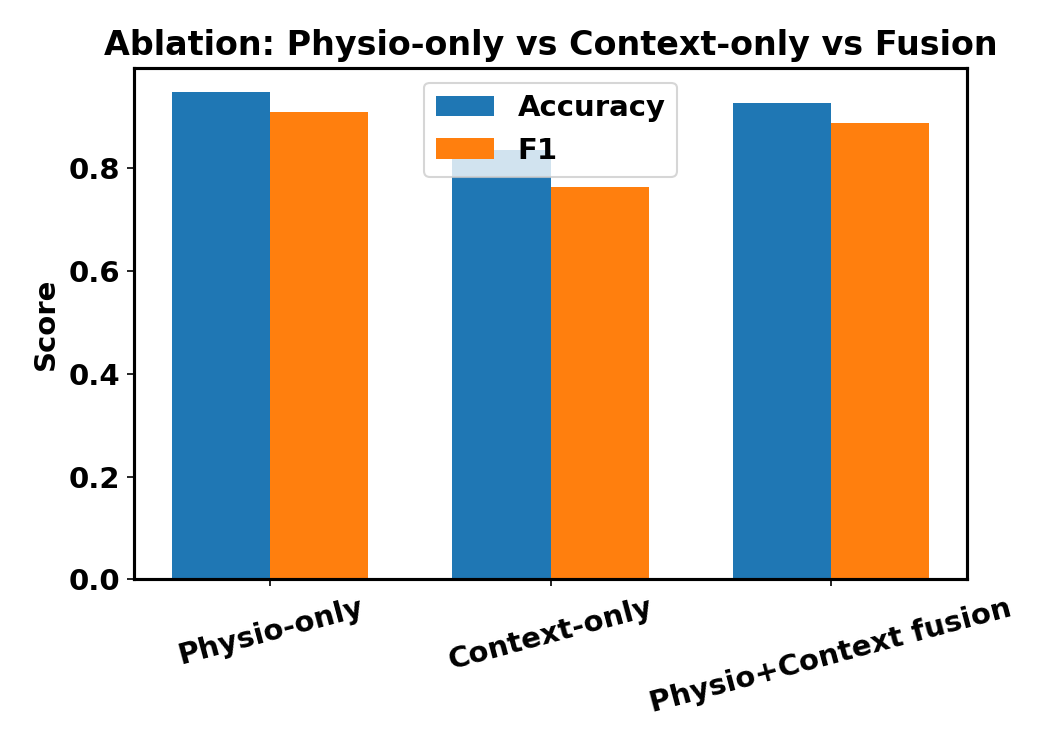
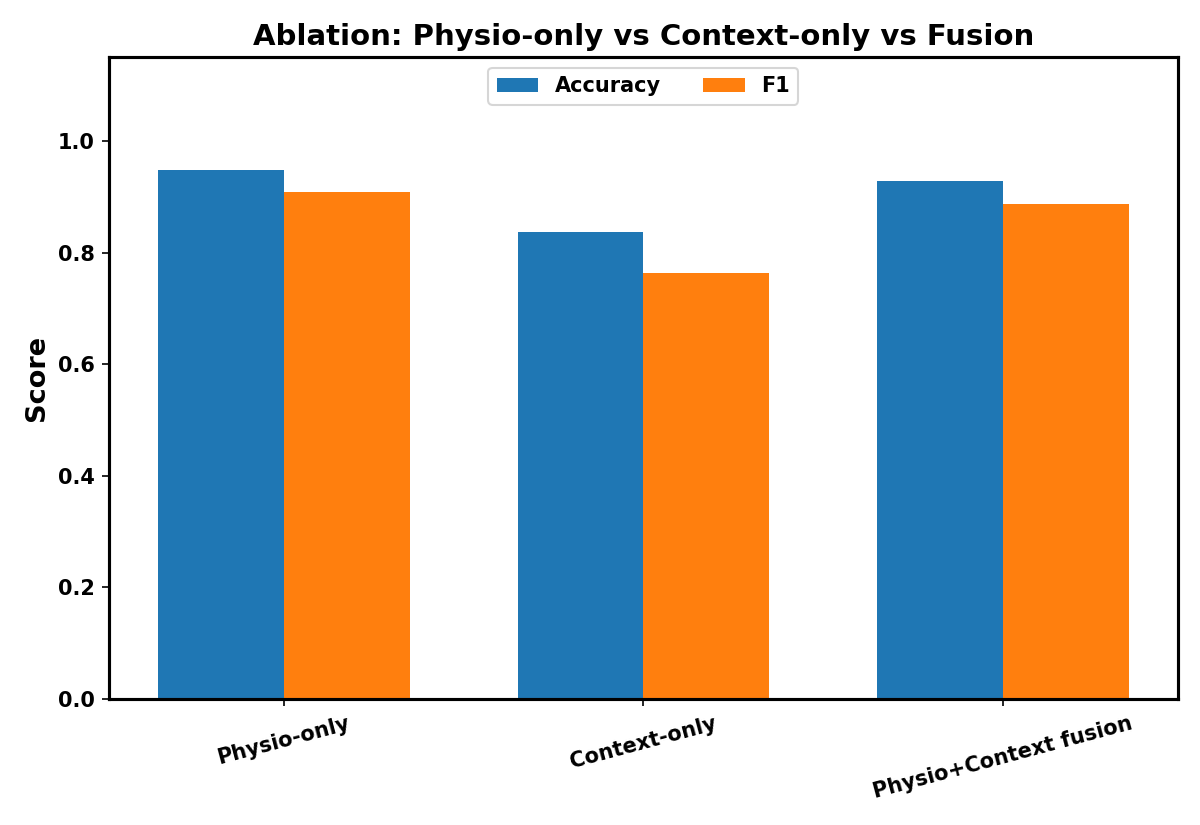
[eval] fix figure sizing/legend clashes across all plots

Changed region(s): [[0.0, 0.0307, 1.0, 0.9813]]

diff --git a/eval/generate_figures.py b/eval/generate_figures.py
@@ -2,7 +2,8 @@
 eval/generate_figures.py
 Generates paper-ready figures from saved results CSVs.
 Saves all as PNG into paper/figures/.
-Styling: bold text throughout, font size 14-16, visible spines.
+Styling: bold text, visible spines, font sizes tuned per-figure to avoid
+legend/label clashes on dense plots.
 """
 import pandas as pd
 import matplotlib.pyplot as plt
@@ -10,15 +11,9 @@ import matplotlib.pyplot as plt
 OUT_DIR = "paper/figures"
 
 plt.rcParams.update({
-    "font.size": 14,
     "font.weight": "bold",
     "axes.labelweight": "bold",
     "axes.titleweight": "bold",
-    "axes.titlesize": 16,
-    "axes.labelsize": 14,
-    "xtick.labelsize": 14,
-    "ytick.labelsize": 14,
-    "legend.fontsize": 14,
     "axes.linewidth": 1.5,
     "axes.edgecolor": "black",
 })
@@ -31,19 +26,26 @@ def style_spines(ax):
         spine.set_color("black")
 
 
+def bold_ticks(ax, size=11):
+    for label in ax.get_xticklabels() + ax.get_yticklabels():
+        label.set_fontweight("bold")
+        label.set_fontsize(size)
+
+
 def fig_loso_per_subject():
     df = pd.read_csv("results/physio_loso_results.csv")
-    fig, ax = plt.subplots(figsize=(10, 5))
+    fig, ax = plt.subplots(figsize=(11, 5.5))
     x = range(len(df))
-    ax.bar(x, df["acc"], label="Accuracy", alpha=0.7)
-    ax.bar(x, df["f1"], label="F1", alpha=0.7, width=0.5)
+    ax.bar(x, df["acc"], label="Accuracy", alpha=0.7, width=0.6)
+    ax.bar(x, df["f1"], label="F1", alpha=0.7, width=0.35)
     ax.set_xticks(x)
-    ax.set_xticklabels(df["subject"], rotation=45, fontweight="bold")
-    ax.set_ylabel("Score", fontweight="bold")
-    ax.set_title("Physio Agent — Per-Subject LOSO Performance", fontweight="bold")
-    for label in ax.get_yticklabels():
-        label.set_fontweight("bold")
-    leg = ax.legend()
+    ax.set_xticklabels(df["subject"], rotation=45, fontsize=10, fontweight="bold")
+    ax.set_ylabel("Score", fontsize=13, fontweight="bold")
+    ax.set_title("Physio Agent — Per-Subject LOSO Performance", fontsize=14, fontweight="bold")
+    ax.set_ylim(0, 1.15)
+    bold_ticks(ax, size=10)
+    leg = ax.legend(fontsize=10, loc="upper center", ncol=2,
+                     bbox_to_anchor=(0.5, 1.0), frameon=True)
     for text in leg.get_texts():
         text.set_fontweight("bold")
     style_spines(ax)
@@ -69,17 +71,20 @@ def fig_baseline_comparison():
     f1s += [physio_loso["f1"].mean(), behavior["f1"].iloc[0]]
 
     x = range(len(labels))
-    fig, ax = plt.subplots(figsize=(10, 5))
+    fig, ax = plt.subplots(figsize=(11, 5.5))
     width = 0.35
     ax.bar([i - width/2 for i in x], accs, width, label="Accuracy")
     ax.bar([i + width/2 for i in x], f1s, width, label="F1")
     ax.set_xticks(x)
-    ax.set_xticklabels(labels, fontsize=12, fontweight="bold")
-    ax.set_ylabel("Score", fontweight="bold")
-    ax.set_title("Baseline Classifiers vs MARL (PPO) Agents", fontweight="bold")
+    ax.set_xticklabels(labels, fontsize=9, fontweight="bold")
+    ax.set_ylabel("Score", fontsize=13, fontweight="bold")
+    ax.set_title("Baseline Classifiers vs MARL (PPO) Agents", fontsize=14, fontweight="bold")
+    ax.set_ylim(0, 1.15)
     for label in ax.get_yticklabels():
         label.set_fontweight("bold")
-    leg = ax.legend()
+        label.set_fontsize(10)
+    leg = ax.legend(fontsize=10, loc="upper center", ncol=2,
+                     bbox_to_anchor=(0.5, 1.0), frameon=True)
     for text in leg.get_texts():
         text.set_fontweight("bold")
     style_spines(ax)
@@ -91,18 +96,21 @@ def fig_baseline_comparison():
 
 def fig_ablation():
     df = pd.read_csv("results/ablation_results.csv")
-    fig, ax = plt.subplots(figsize=(7, 5))
+    fig, ax = plt.subplots(figsize=(8, 5.5))
     x = range(len(df))
     width = 0.35
     ax.bar([i - width/2 for i in x], df["acc"], width, label="Accuracy")
     ax.bar([i + width/2 for i in x], df["f1"], width, label="F1")
     ax.set_xticks(x)
-    ax.set_xticklabels(df["config"], rotation=15, fontweight="bold")
-    ax.set_ylabel("Score", fontweight="bold")
-    ax.set_title("Ablation: Physio-only vs Context-only vs Fusion", fontweight="bold")
+    ax.set_xticklabels(df["config"], rotation=15, fontsize=10, fontweight="bold")
+    ax.set_ylabel("Score", fontsize=13, fontweight="bold")
+    ax.set_title("Ablation: Physio-only vs Context-only vs Fusion", fontsize=14, fontweight="bold")
+    ax.set_ylim(0, 1.15)
     for label in ax.get_yticklabels():
         label.set_fontweight("bold")
-    leg = ax.legend()
+        label.set_fontsize(10)
+    leg = ax.legend(fontsize=10, loc="upper center", ncol=2,
+                     bbox_to_anchor=(0.5, 1.0), frameon=True)
     for text in leg.get_texts():
         text.set_fontweight("bold")
     style_spines(ax)
@@ -130,14 +138,11 @@ def fig_shap_summary():
 
     mean_abs = np.mean(np.abs(shap_values), axis=0)
     order = np.argsort(mean_abs)
-    fig, ax = plt.subplots(figsize=(8, 5))
+    fig, ax = plt.subplots(figsize=(8, 5.5))
     ax.barh([FEATURE_COLS[i] for i in order], mean_abs[order])
-    ax.set_xlabel("Mean |SHAP value|", fontweight="bold")
-    ax.set_title("Physio Agent — SHAP Feature Importance", fontweight="bold")
-    for label in ax.get_yticklabels():
-        label.set_fontweight("bold")
-    for label in ax.get_xticklabels():
-        label.set_fontweight("bold")
+    ax.set_xlabel("Mean |SHAP value|", fontsize=13, fontweight="bold")
+    ax.set_title("Physio Agent — SHAP Feature Importance", fontsize=14, fontweight="bold")
+    bold_ticks(ax, size=10)
     style_spines(ax)
     plt.tight_layout()
     plt.savefig(f"{OUT_DIR}/shap_physio_summary.png", dpi=150)

diff --git a/eval/generate_figures_extra.py b/eval/generate_figures_extra.py
@@ -2,7 +2,8 @@
 eval/generate_figures_extra.py
 Additional figure variety: confusion matrices, ROC curves, feature
 correlation heatmap.
-Styling: bold text throughout, font size 14-16, visible spines.
+Styling: bold text, visible spines, font sizes tuned per-figure to avoid
+legend/label clashes on dense plots.
 """
 import numpy as np
 import pandas as pd
@@ -12,15 +13,9 @@ from sklearn.metrics import confusion_matrix, roc_curve, auc
 OUT_DIR = "paper/figures"
 
 plt.rcParams.update({
-    "font.size": 14,
     "font.weight": "bold",
     "axes.labelweight": "bold",
     "axes.titleweight": "bold",
-    "axes.titlesize": 16,
-    "axes.labelsize": 14,
-    "xtick.labelsize": 14,
-    "ytick.labelsize": 14,
-    "legend.fontsize": 14,
     "axes.linewidth": 1.5,
     "axes.edgecolor": "black",
 })
@@ -35,20 +30,21 @@ def style_spines(ax):
 
 def fig_confusion_matrix(y_true, y_pred, title, filename):
     cm = confusion_matrix(y_true, y_pred)
-    fig, ax = plt.subplots(figsize=(5, 4))
+    fig, ax = plt.subplots(figsize=(5.5, 4.8))
     im = ax.imshow(cm, cmap="Blues")
     ax.set_xticks([0, 1]); ax.set_yticks([0, 1])
-    ax.set_xticklabels(["Non-risk", "Risk"], fontweight="bold")
-    ax.set_yticklabels(["Non-risk", "Risk"], fontweight="bold")
-    ax.set_xlabel("Predicted", fontweight="bold")
-    ax.set_ylabel("True", fontweight="bold")
-    ax.set_title(title, fontweight="bold")
+    ax.set_xticklabels(["Non-risk", "Risk"], fontsize=11, fontweight="bold")
+    ax.set_yticklabels(["Non-risk", "Risk"], fontsize=11, fontweight="bold")
+    ax.set_xlabel("Predicted", fontsize=12, fontweight="bold")
+    ax.set_ylabel("True", fontsize=12, fontweight="bold")
+    ax.set_title(title, fontsize=13, fontweight="bold", pad=12)
     for i in range(2):
         for j in range(2):
             ax.text(j, i, cm[i, j], ha="center", va="center",
                      color="white" if cm[i, j] > cm.max() / 2 else "black",
-                     fontsize=14, fontweight="bold")
-    cbar = plt.colorbar(im)
+                     fontsize=13, fontweight="bold")
+    cbar = plt.colorbar(im, fraction=0.046, pad=0.04)
+    cbar.ax.tick_params(labelsize=9)
     for label in cbar.ax.get_yticklabels():
         label.set_fontweight("bold")
     style_spines(ax)
@@ -61,17 +57,16 @@ def fig_confusion_matrix(y_true, y_pred, title, filename):
 def fig_roc_curve(y_true, y_score, title, filename):
     fpr, tpr, _ = roc_curve(y_true, y_score)
     roc_auc = auc(fpr, tpr)
-    fig, ax = plt.subplots(figsize=(5, 5))
+    fig, ax = plt.subplots(figsize=(5.5, 5.5))
     ax.plot(fpr, tpr, label=f"AUC = {roc_auc:.3f}", linewidth=2.5)
     ax.plot([0, 1], [0, 1], linestyle="--", color="gray", label="Chance", linewidth=2)
-    ax.set_xlabel("False Positive Rate", fontweight="bold")
-    ax.set_ylabel("True Positive Rate", fontweight="bold")
-    ax.set_title(title, fontweight="bold")
-    for label in ax.get_xticklabels():
+    ax.set_xlabel("False Positive Rate", fontsize=12, fontweight="bold")
+    ax.set_ylabel("True Positive Rate", fontsize=12, fontweight="bold")
+    ax.set_title(title, fontsize=13, fontweight="bold", pad=12)
+    for label in ax.get_xticklabels() + ax.get_yticklabels():
         label.set_fontweight("bold")
-    for label in ax.get_yticklabels():
-        label.set_fontweight("bold")
-    leg = ax.legend()
+        label.set_fontsize(10)
+    leg = ax.legend(fontsize=10, loc="lower right", frameon=True)
     for text in leg.get_texts():
         text.set_fontweight("bold")
     style_spines(ax)
@@ -87,14 +82,15 @@ def fig_feature_correlation_heatmap():
     df = pd.DataFrame(X, columns=FEATURE_COLS)
     corr = df.corr()
 
-    fig, ax = plt.subplots(figsize=(8, 7))
+    fig, ax = plt.subplots(figsize=(9, 8))
     im = ax.imshow(corr, cmap="coolwarm", vmin=-1, vmax=1)
     ax.set_xticks(range(len(FEATURE_COLS)))
     ax.set_yticks(range(len(FEATURE_COLS)))
-    ax.set_xticklabels(FEATURE_COLS, rotation=90, fontsize=12, fontweight="bold")
-    ax.set_yticklabels(FEATURE_COLS, fontsize=12, fontweight="bold")
-    ax.set_title("Physio Feature Correlation Heatmap", fontweight="bold")
-    cbar = plt.colorbar(im)
+    ax.set_xticklabels(FEATURE_COLS, rotation=90, fontsize=9, fontweight="bold")
+    ax.set_yticklabels(FEATURE_COLS, fontsize=9, fontweight="bold")
+    ax.set_title("Physio Feature Correlation Heatmap", fontsize=14, fontweight="bold", pad=14)
+    cbar = plt.colorbar(im, fraction=0.046, pad=0.04)
+    cbar.ax.tick_params(labelsize=10)
     for label in cbar.ax.get_yticklabels():
         label.set_fontweight("bold")
     style_spines(ax)
